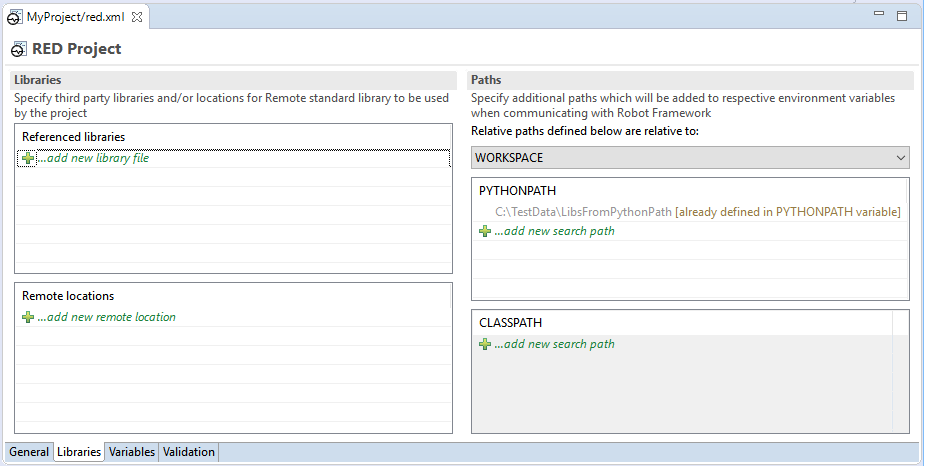
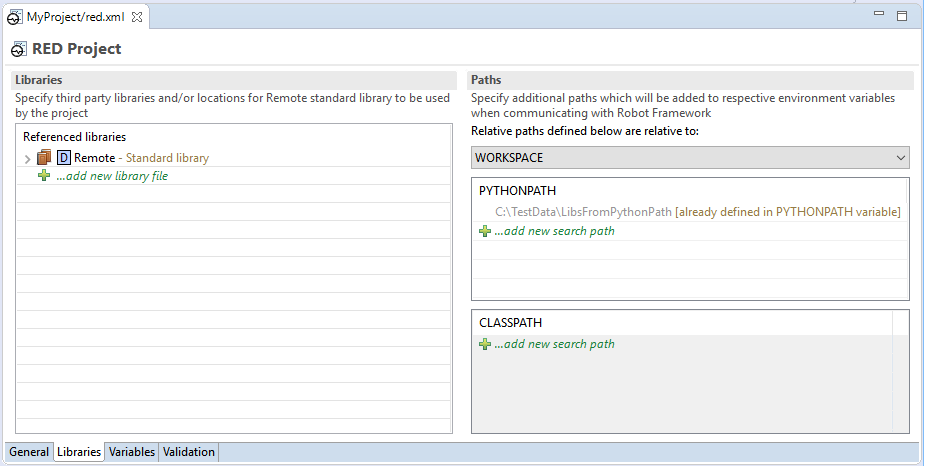
RED-565 (GitHub #47) handling libraries with arguments
- updating screenshot in documentation
- libraries deleting handler is able to delete when both libraries and
arguments are selected

Changed region(s): [[0.0, 0.1502, 0.4838, 0.3906], [0.0, 0.5708, 0.4838, 0.721], [0.0, 0.9013, 0.0302, 0.9313]]

diff --git a/src/Eclipse-IDE/org.robotframework.ide.eclipse.main.plugin/src/org/robotframework/ide/eclipse/main/plugin/project/editor/handlers/DeleteReferencedLibraryHandler.java b/src/Eclipse-IDE/org.robotframework.ide.eclipse.main.plugin/src/org/robotframework/ide/eclipse/main/plugin/project/editor/handlers/DeleteReferencedLibraryHandler.java
@@ -5,8 +5,10 @@
  */
 package org.robotframework.ide.eclipse.main.plugin.project.editor.handlers;
 
-import java.util.ArrayList;
+import static java.util.stream.Collectors.toList;
+
 import java.util.List;
+import java.util.stream.Stream;
 
 import javax.inject.Named;
 
@@ -43,47 +45,47 @@ public class DeleteReferencedLibraryHandler extends DIParameterizedHandler<E4Del
         public void deleteReferencedLibraries(@Named(Selections.SELECTION) final IStructuredSelection selection,
                 final RedProjectEditorInput input, final IEventBroker eventBroker) {
 
-            final List<RemoteLocation> remotesFromLib = Selections
+            final List<RemoteLocation> remotesToRemove = Selections
                     .getOptionalFirstElement(selection, RemoteLibraryViewItem.class)
                     .map(RemoteLibraryViewItem::getLocations)
-                    .orElse(new ArrayList<RemoteLocation>());
-            final List<ReferencedLibrary> libs = Selections.getElements(selection, ReferencedLibrary.class);
-            final List<ReferencedLibraryArgumentsVariant> variants = Selections.getElements(selection,
-                    ReferencedLibraryArgumentsVariant.class);
-            final List<RemoteLocation> remotes = Selections.getElements(selection, RemoteLocation.class);
+                    .orElseGet(() -> Selections.getElements(selection, RemoteLocation.class));
+            final List<ReferencedLibrary> libsToRemove = Selections.getElements(selection, ReferencedLibrary.class);
+            final List<ReferencedLibraryArgumentsVariant> variantsToRemove = Selections
+                    .getElementsStream(selection, ReferencedLibraryArgumentsVariant.class)
+                    .filter(variant -> !libsToRemove.contains(variant.getParent()))
+                    .collect(toList());
 
-            if (!libs.isEmpty() || !remotesFromLib.isEmpty()) {
-                final boolean removedRefLibs = input.getProjectConfiguration().removeReferencedLibraries(libs);
-                final boolean removedRemotes = input.getProjectConfiguration().removeRemoteLocations(remotesFromLib);
+            boolean removedLibs = false;
+            boolean removedVariants = false;
+            boolean removedRemotes = false;
 
-                if (removedRefLibs) {
-                    eventBroker.send(RobotProjectConfigEvents.ROBOT_CONFIG_LIBRARY_ADDED_REMOVED,
-                            new RedProjectConfigEventData<>(input.getFile(), libs));
-                    input.getRobotProject().unregisterWatchingOnReferencedLibraries(libs);
-                }
-                if (removedRemotes) {
-                    eventBroker.send(RobotProjectConfigEvents.ROBOT_CONFIG_LIBRARIES_ARGUMENTS_REMOVED,
-                            new RedProjectConfigEventData<>(input.getFile(), remotesFromLib));
-                }
-
-            } else if (!variants.isEmpty() || !remotes.isEmpty()) {
-                final List<Object> removedElems = new ArrayList<>();
-                removedElems.addAll(variants);
-                removedElems.addAll(remotes);
-
-                final boolean removedRemotes = input.getProjectConfiguration().removeRemoteLocations(remotes);
-
+            if (!libsToRemove.isEmpty()) {
+                removedLibs = input.getProjectConfiguration().removeReferencedLibraries(libsToRemove);
+            }
+            if (!variantsToRemove.isEmpty()) {
                 final Multimap<ReferencedLibrary, ReferencedLibraryArgumentsVariant> groupedVariants = Multimaps
-                        .index(variants, ReferencedLibraryArgumentsVariant::getParent);
-                boolean removedVariants = false;
+                        .index(variantsToRemove, ReferencedLibraryArgumentsVariant::getParent);
                 for (final ReferencedLibrary refLib : groupedVariants.keySet()) {
                     removedVariants |= refLib.removeArgumentsVariants(groupedVariants.get(refLib));
                 }
+            }
+            if (!remotesToRemove.isEmpty()) {
+                removedRemotes = input.getProjectConfiguration().removeRemoteLocations(remotesToRemove);
+            }
 
-                if (removedRemotes || removedVariants) {
-                    eventBroker.send(RobotProjectConfigEvents.ROBOT_CONFIG_LIBRARIES_ARGUMENTS_REMOVED,
-                            new RedProjectConfigEventData<>(input.getFile(), removedElems));
-                }
+
+            if (removedLibs) {
+                eventBroker.send(RobotProjectConfigEvents.ROBOT_CONFIG_LIBRARY_ADDED_REMOVED,
+                        new RedProjectConfigEventData<>(input.getFile(), libsToRemove));
+                input.getRobotProject().unregisterWatchingOnReferencedLibraries(libsToRemove);
+            }
+            if (removedVariants || removedRemotes) {
+                final List<Object> allRemoved = Stream.of(variantsToRemove, remotesToRemove)
+                        .flatMap(List::stream)
+                        .collect(toList());
+                eventBroker.send(RobotProjectConfigEvents.ROBOT_CONFIG_LIBRARIES_ARGUMENTS_REMOVED,
+                        new RedProjectConfigEventData<>(input.getFile(),
+                                allRemoved));
             }
         }
     }
